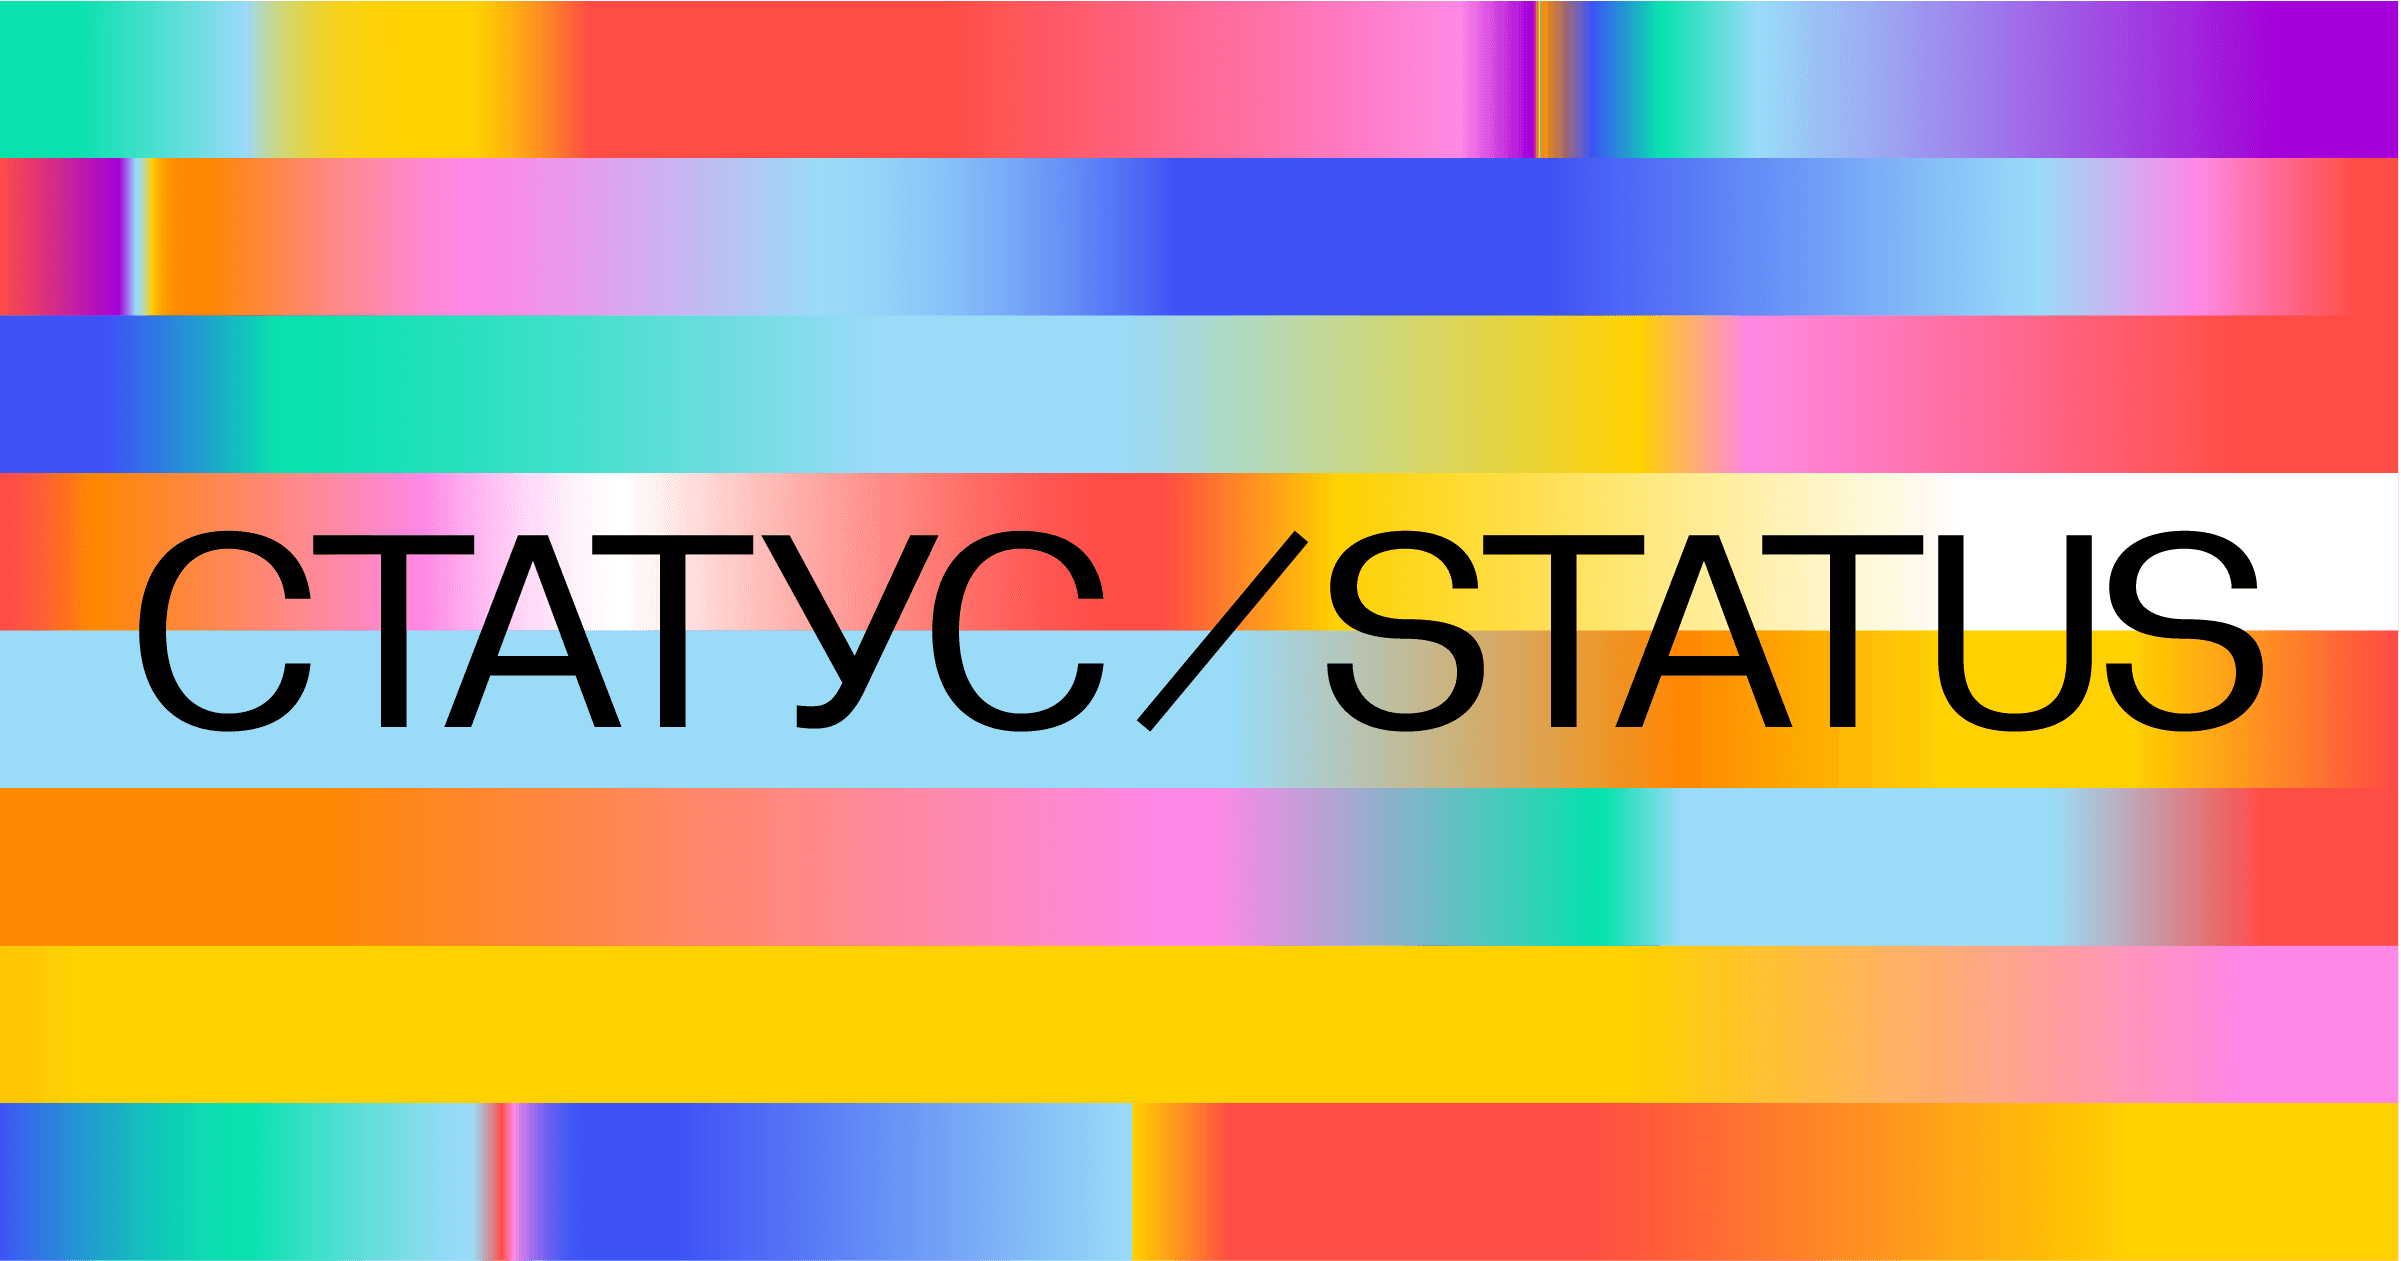
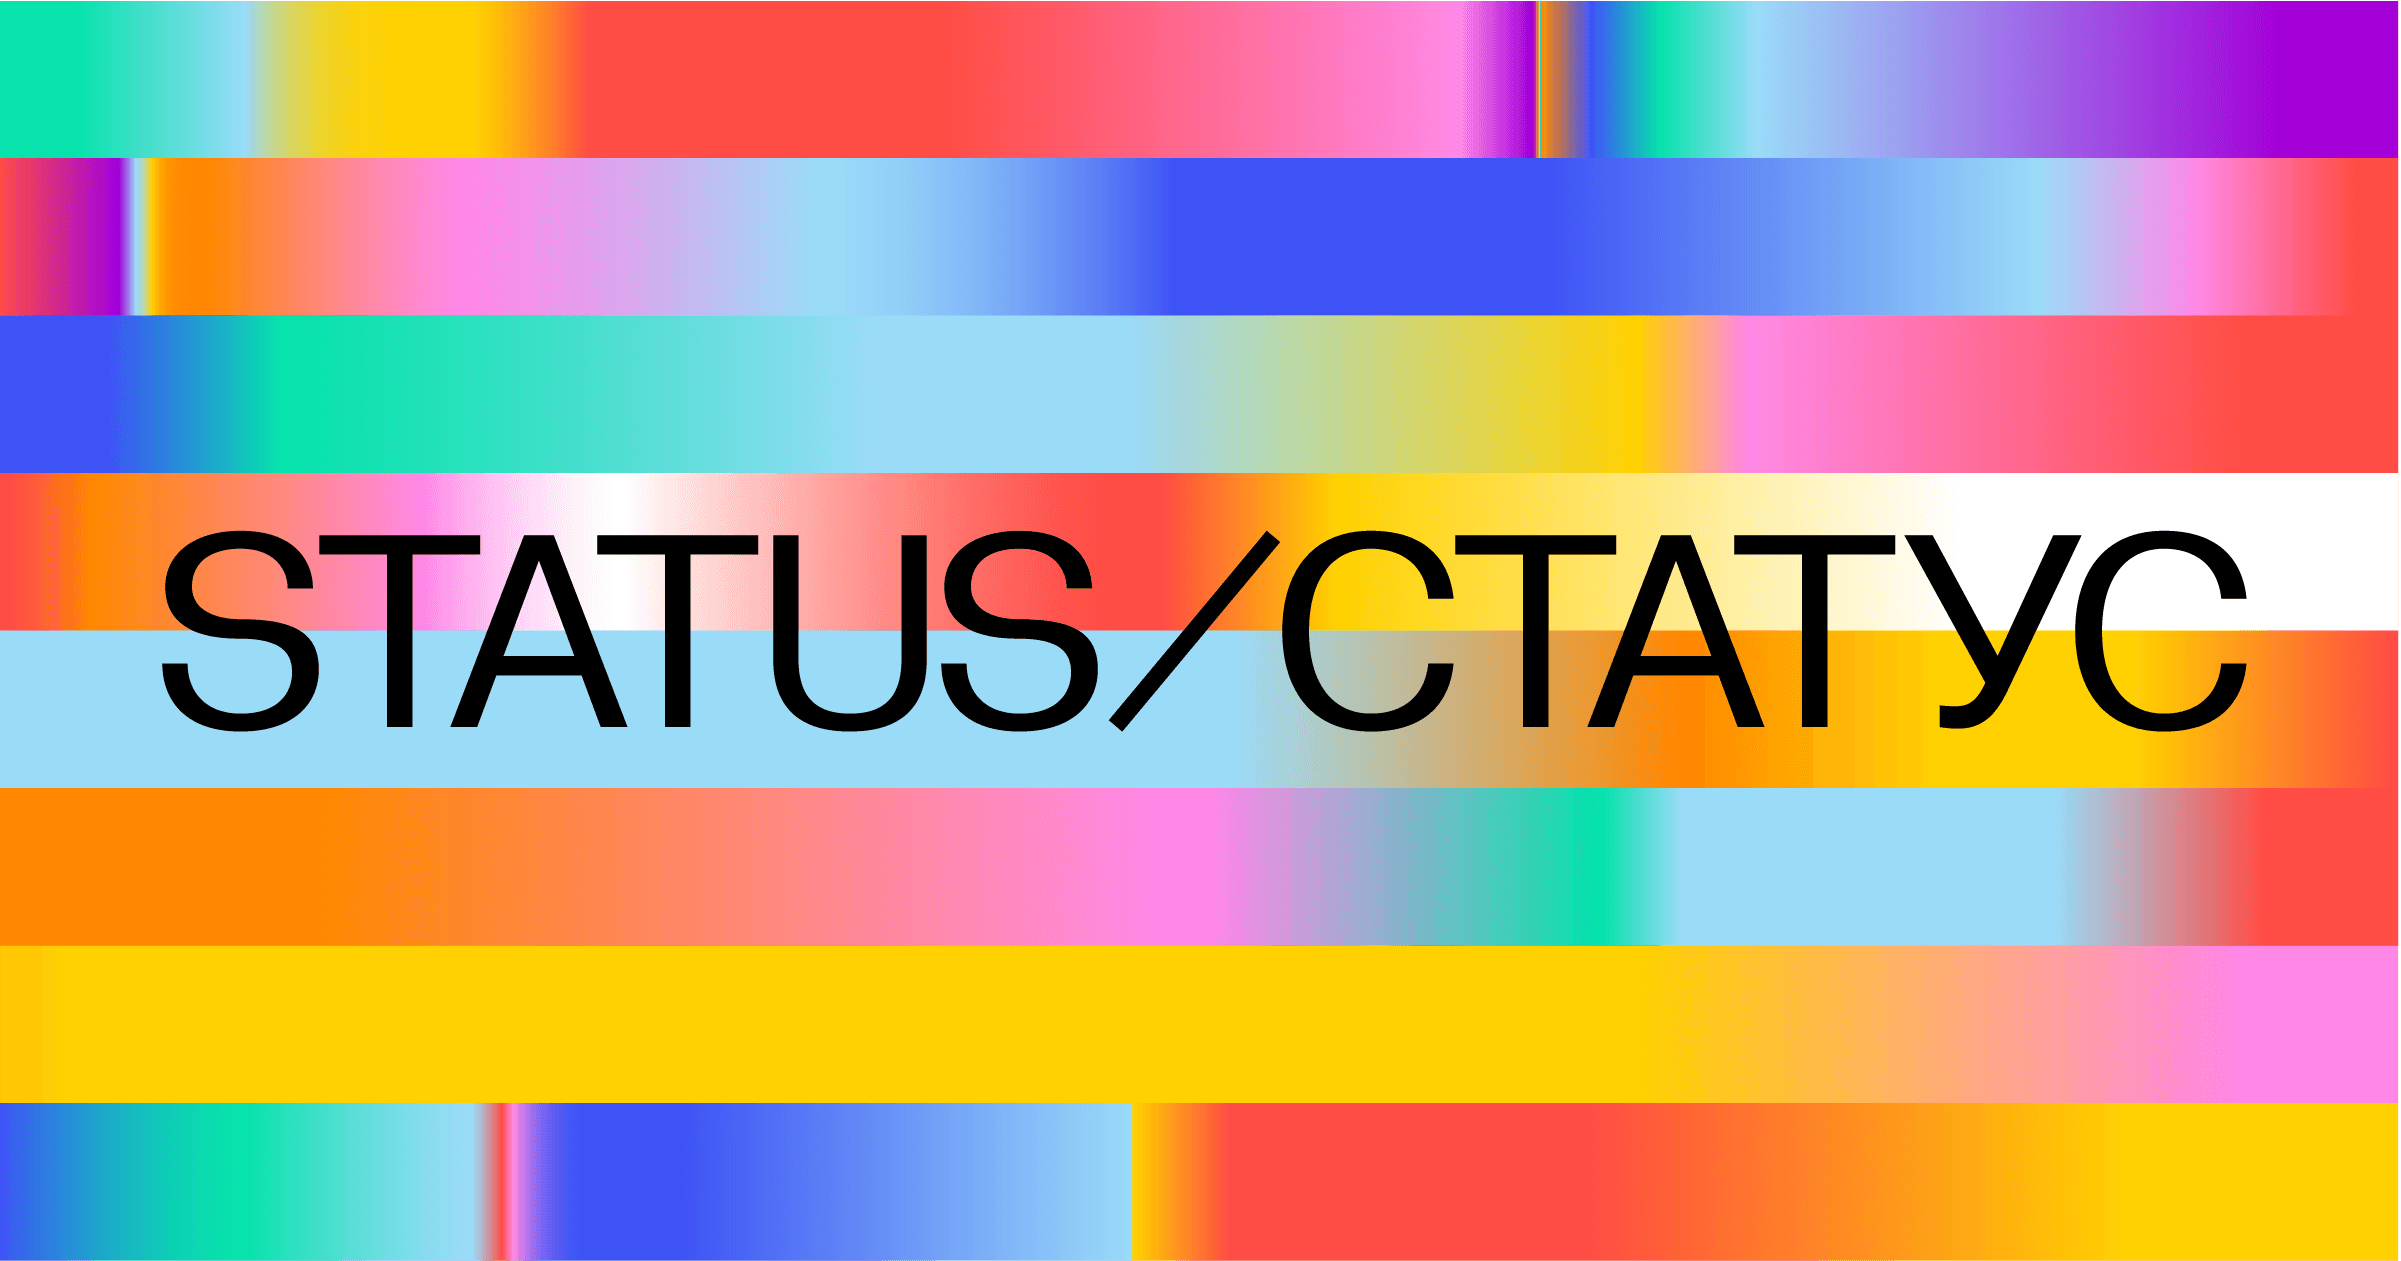
:bento: Update assets

diff --git a/public/index.html b/public/index.html
@@ -6,11 +6,11 @@
     <meta name="viewport" content="width=device-width, initial-scale=1.0" />
     <meta
       name="description"
-      content="Status/Статус"
+      content="STATUS/СТАТУС"
     />
     <meta
       property="og:title"
-      content="Status/Статус"
+      content="STATUS/СТАТУС"
     />
     <meta
       property="og:description"
